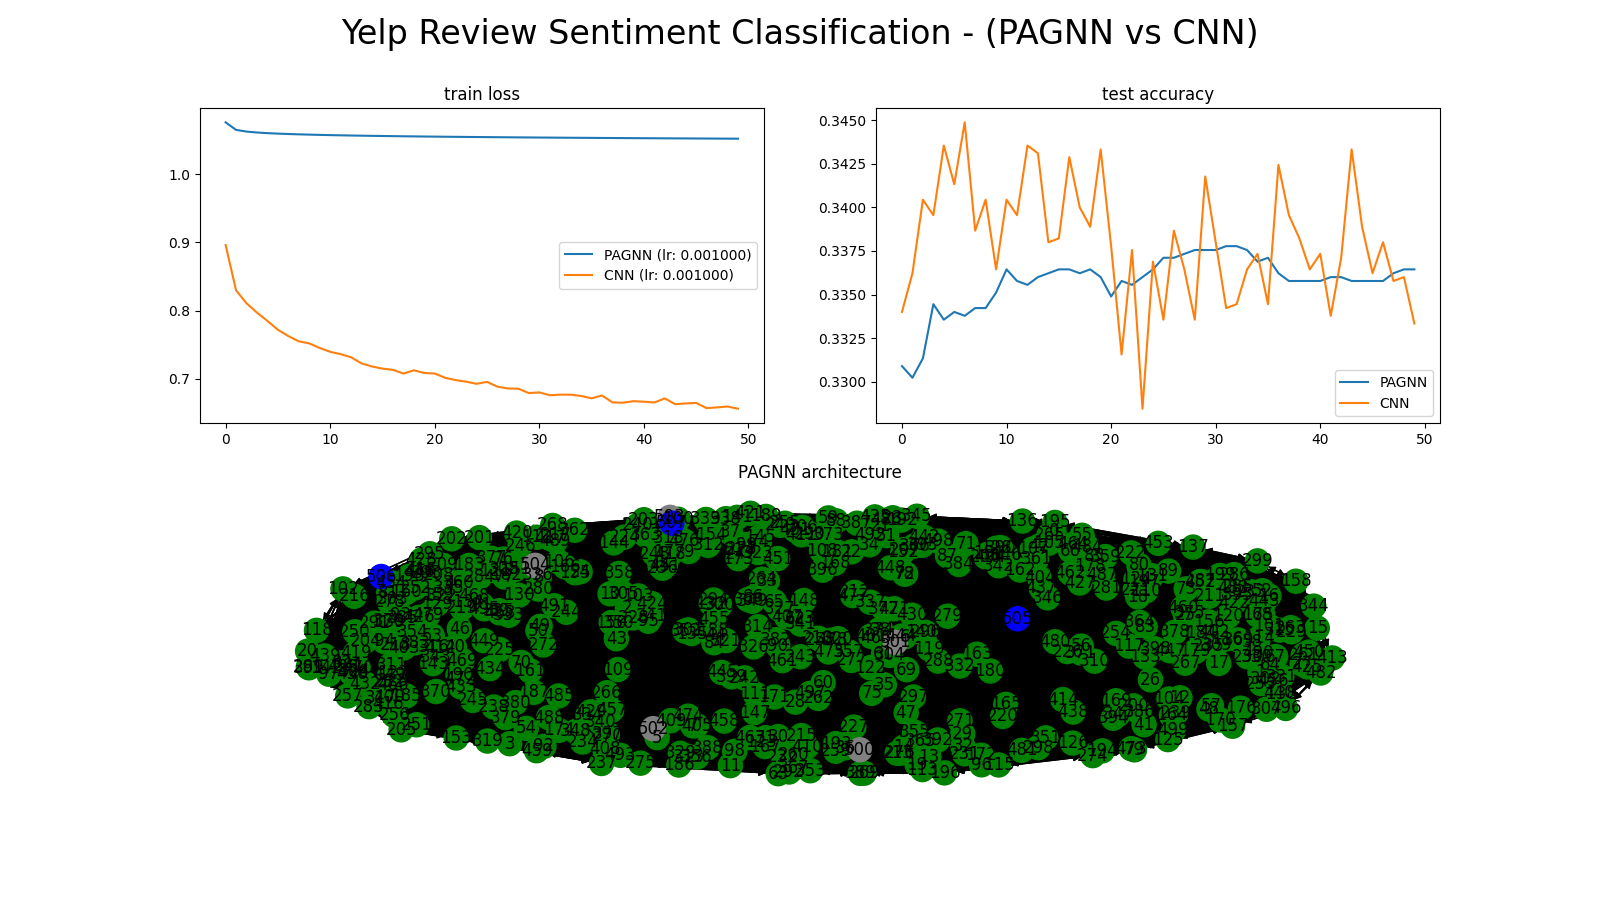
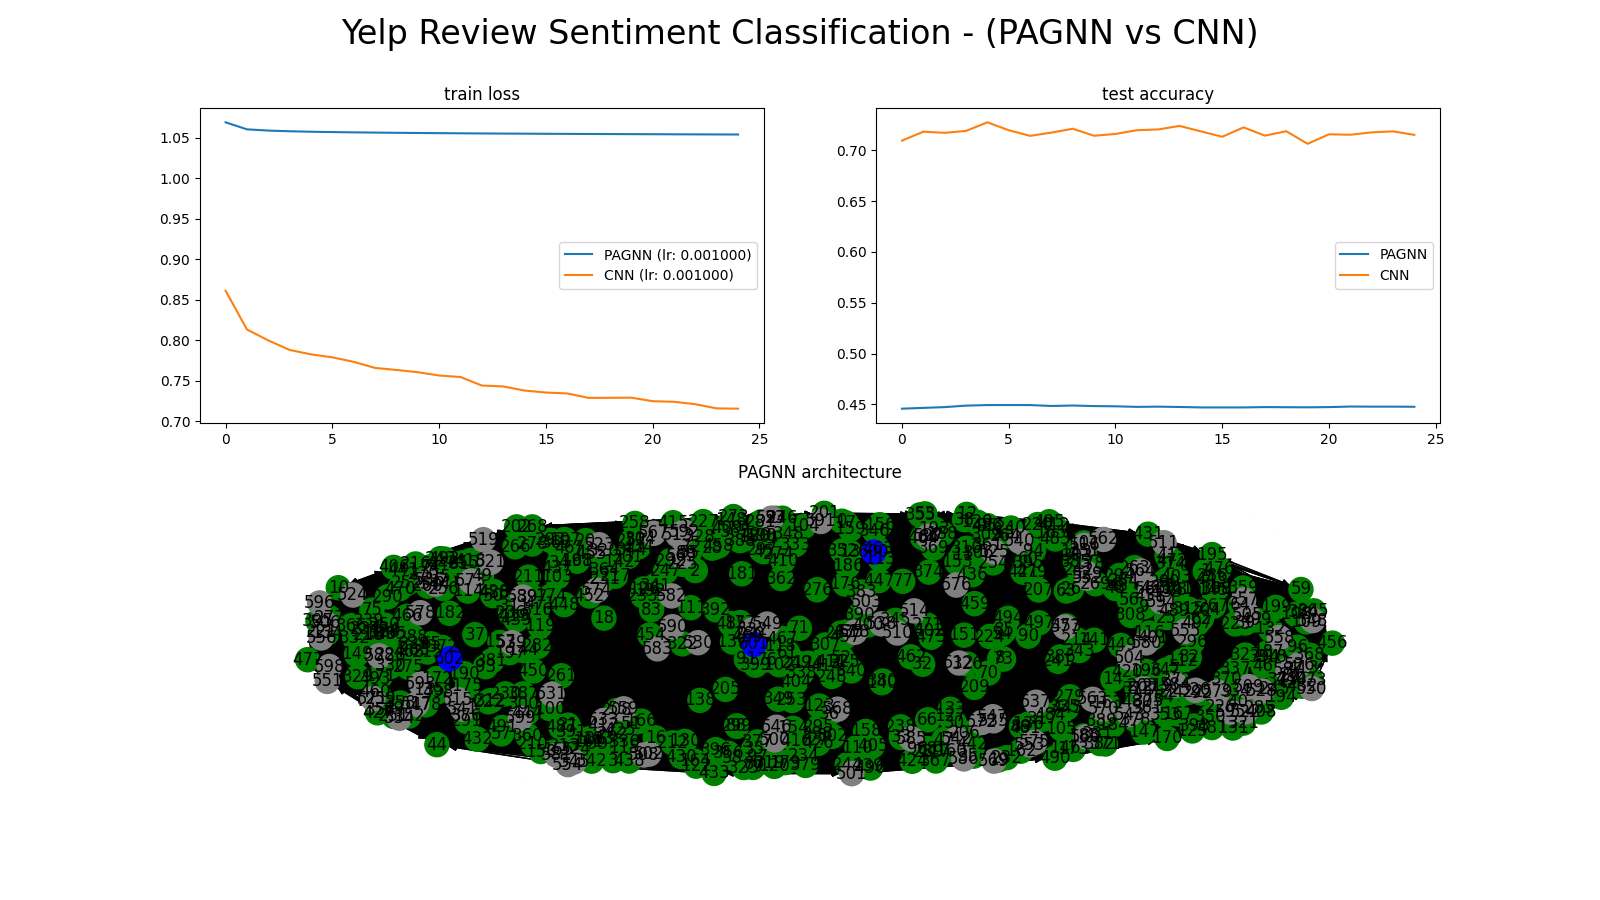
45% pagnn accuracy

diff --git a/comparisons/nlp/yelp/yelp_dataset.py b/comparisons/nlp/yelp/yelp_dataset.py
@@ -141,7 +141,7 @@ if __name__ == '__main__':
     """LOAD AND PREPROCESS DATA"""
     df = pd.read_csv('datasets/yelp/output_reviews_top.csv')
     df['sentiment'] = [map_sentiment(x) for x in df['stars']]
-    df = get_top_data(df, top_n=5000)
+    df = get_top_data(df, top_n=10000)
     # Tokenize the text column to get the new column 'tokenized_text'
     df['tokenized_text'] = [simple_preprocess(line, deacc=True) for line in df['text']] 
     # Get the stemmed_tokens
@@ -150,12 +150,12 @@ if __name__ == '__main__':
     # get train / test sets
     X_train, X_test, Y_train, Y_test = split_train_test(df)
 
-    device = torch.device('cpu') # pagnn is faster with CPU for this test
+    device = torch.device('cuda') # pagnn is faster with CPU for this test
     cnn_device = torch.device('cuda') # cnn is faster with GPU for this test
 
     D = w2v.vector_size
     C = 3 # 3 classes = 0, 1, 2 (sentiments)
-    pagnn = PAGNN(D + C + 5, D, C, graph_generator=nx.generators.classic.complete_graph, w2vec_model=w2v)
+    pagnn = PAGNN(D + C + 100, D, C, graph_generator=nx.generators.classic.complete_graph, w2vec_model=w2v)
     pagnn.to(device)
     struc = pagnn.structure_adj_matrix
     print(pagnn)
@@ -181,7 +181,7 @@ if __name__ == '__main__':
     pagnn_history = {'train_loss': [], 'test_accuracy': []}
     cnn_history = {'train_loss': [], 'test_accuracy': []}
 
-    epochs = 50
+    epochs = 100
     try:
         for epoch in range(epochs):
             print('epoch', epoch)
